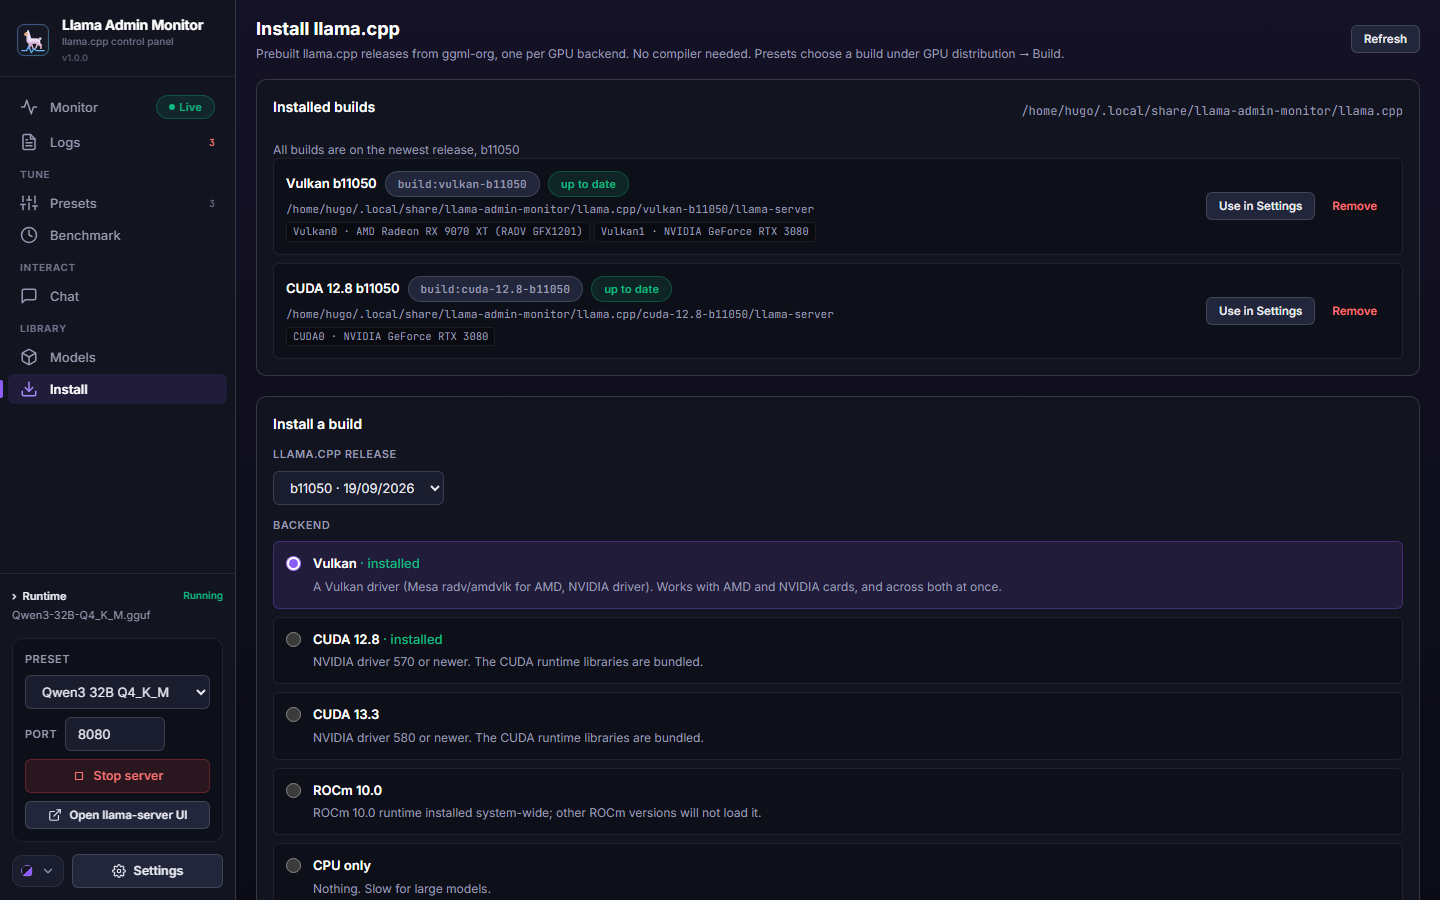
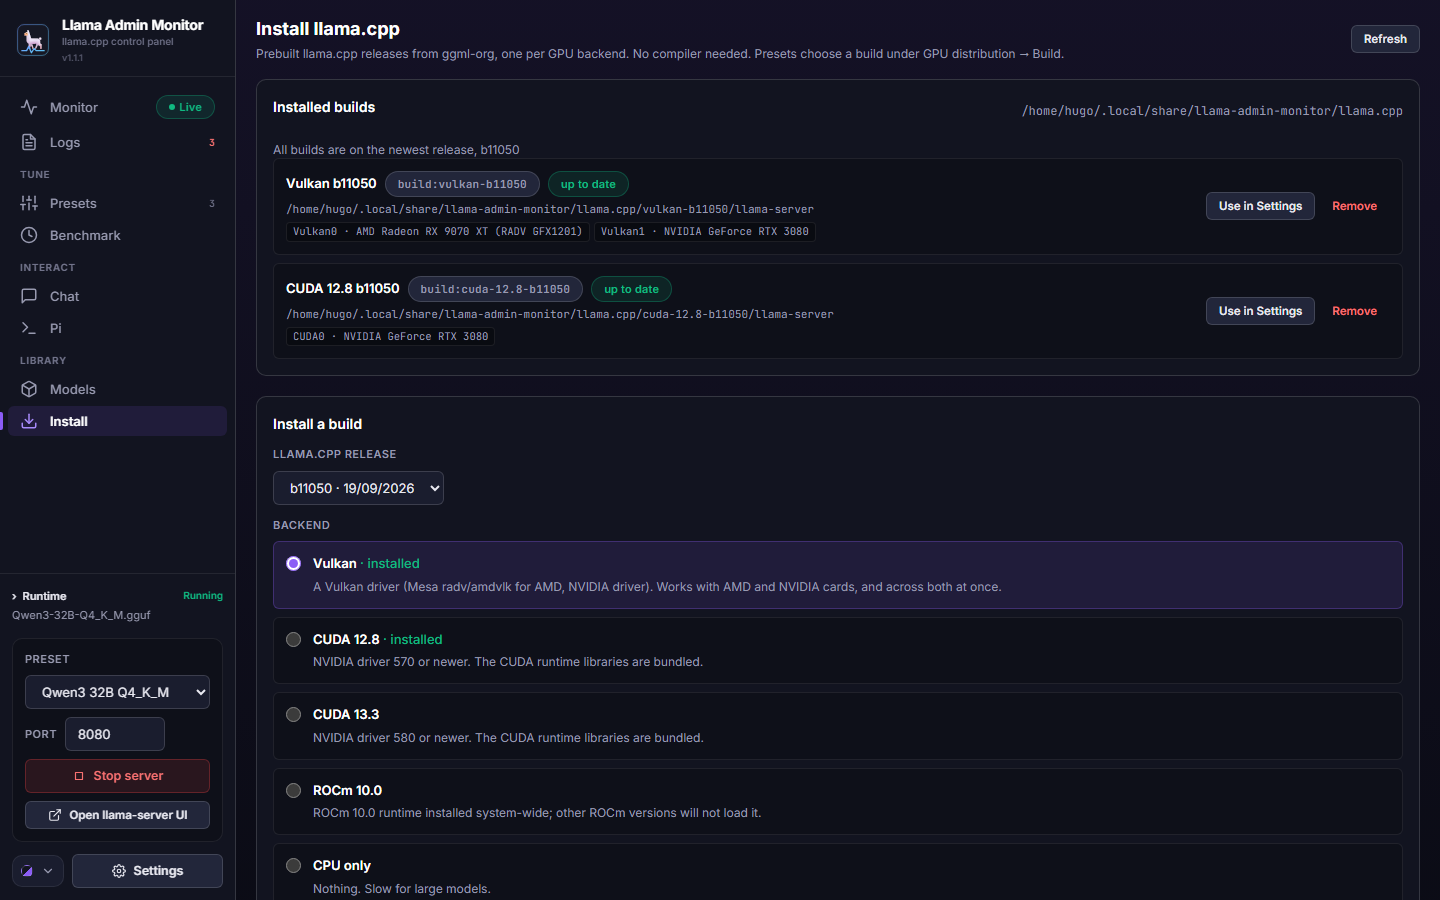
README: pi section and screenshot; all screenshots re-taken at 1.1.1

Changed region(s): [[0.0, 0.3422, 0.1562, 0.4978]]

diff --git a/README.md b/README.md
@@ -1,6 +1,6 @@
 # Llama Admin Monitor
 
-Web control panel for [llama.cpp](https://github.com/ggerganov/llama.cpp) servers: live GPU, CPU, memory and disk monitoring with an nvtop-style activity view, one-click installs of prebuilt llama.cpp builds (Vulkan, CUDA, ROCm, CPU, Metal), model management with Hugging Face downloads, multi-GPU VRAM visualisation, automated tensor-split benchmarking, an OpenAI-compatible endpoint that follows whichever model is loaded, and in-app updates — in a single self-contained Rust binary.
+Web control panel for [llama.cpp](https://github.com/ggerganov/llama.cpp) servers: live GPU, CPU, memory and disk monitoring with an nvtop-style activity view, one-click installs of prebuilt llama.cpp builds (Vulkan, CUDA, ROCm, CPU, Metal), model management with Hugging Face downloads, multi-GPU VRAM visualisation, automated tensor-split benchmarking, an OpenAI-compatible endpoint that follows whichever model is loaded, the [pi](https://pi.dev) coding agent in an embedded terminal, and in-app updates — in a single self-contained Rust binary.
 
 It began as a fork of [arte-fact/llama-monitor](https://github.com/arte-fact/llama-monitor) (extended into an admin dashboard as [ViriatusOG/llama-monitor](https://github.com/ViriatusOG/llama-monitor)) and now carries a UI modelled on [LLama-GUI](https://github.com/thomas9120/LLama-GUI): a grouped sidebar, card-based pages, and five WCAG-AA themes.
 
@@ -9,6 +9,10 @@ It began as a fork of [arte-fact/llama-monitor](https://github.com/arte-fact/lla
 Monitor, in the **Nebula** theme — inference, GPU activity with five minutes of history and the processes on each GPU, pooled VRAM, CPU, memory, the disk behind the models directory with SMART health, and one card per GPU:
 
 ![Monitor](docs/images/monitor.png)
+
+The **pi** coding agent running on the server, inside the dashboard, against the loaded model:
+
+![Pi](docs/images/pi.png)
 
 | Install llama.cpp | Logs |
 | --- | --- |
@@ -57,11 +61,13 @@ Same dashboard in the **Mint** light theme:
 ### Optimisation
 - **Benchmark page** — sweeps tensor-split ratios, and optionally batch sizes, micro-batch sizes and thread counts, through `llama-bench`; reports prompt and generation throughput per combination, marks the fastest and applies it to a preset in one click. Large sweeps ask for confirmation with the run count; cancellable, keeping results so far
 
+### AI coding agent
+- **Pi page** — [pi](https://pi.dev), the minimal coding agent, runs in a real pseudo-terminal on the server and is rendered in the dashboard with xterm.js; the session survives page changes and reloads (recent scrollback is replayed on reattach). Pick a working directory, press Start, and pi comes up on a `llama-admin-monitor` provider the monitor writes into `~/.pi/agent/models.json`: one model entry per **preset**, named after the preset, pointing at the monitor's `/v1` proxy with the preset's context size. pi starts on the active preset; `/model` inside pi lists the others. When pi is not installed, **Install pi** runs its official installer in the same terminal. Only the pi process runs as the monitor's user, with the monitor's environment.
+
 ### Interface
 - **Five themes** — Tokyo and Nebula (dark), Graphite (mid-tone), Cappuccino and Mint (light), picked from the sidebar and remembered per browser
 - **OpenAI-compatible proxy** — everything under `/v1/*` is forwarded to the running llama-server, so clients such as SillyTavern or the OpenAI SDKs can point at `http://<monitor>:7778/v1` and follow whichever model is loaded
 - **Integrated chat** — streaming chat through that proxy, with collapsible reasoning blocks and Markdown rendering
-- **Pi coding agent** — [pi](https://pi.dev) in a terminal on the server, embedded in the dashboard and pointed at the loaded model through the same proxy (a `llama-admin-monitor` provider is written to `~/.pi/agent/models.json` on every start). Pick a working directory and Start; the session keeps running between page visits. One-click install when pi is missing
 - **In-app updates** — Settings → App Updates installs the newest GitHub release for your track (stable `main` or pre-release `beta`) and restarts; see [Updates and release tracks](#updates-and-release-tracks)
 - **File browser** for binaries, directories and models; **persistent settings** (preset, port, paths, models directory); **responsive** layout with a navigation drawer on phones; installable as a PWA
 
